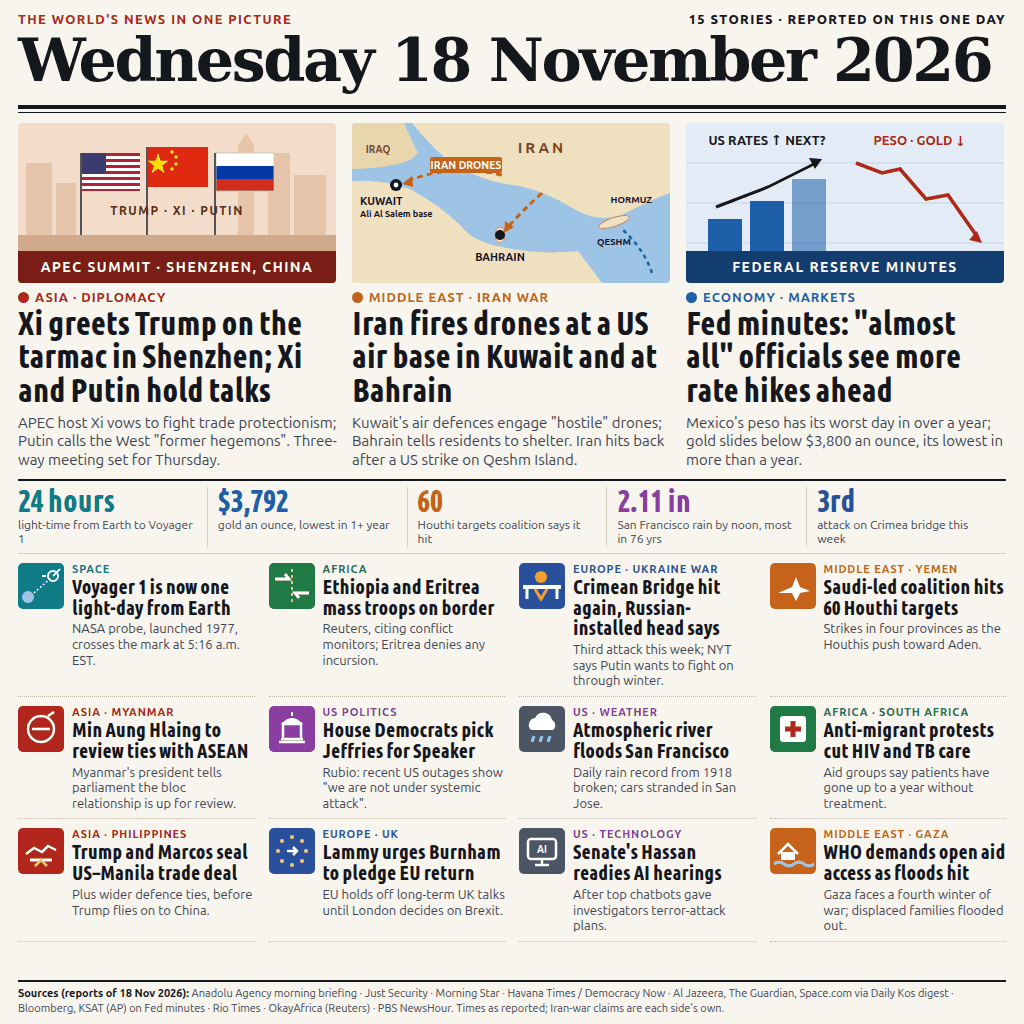
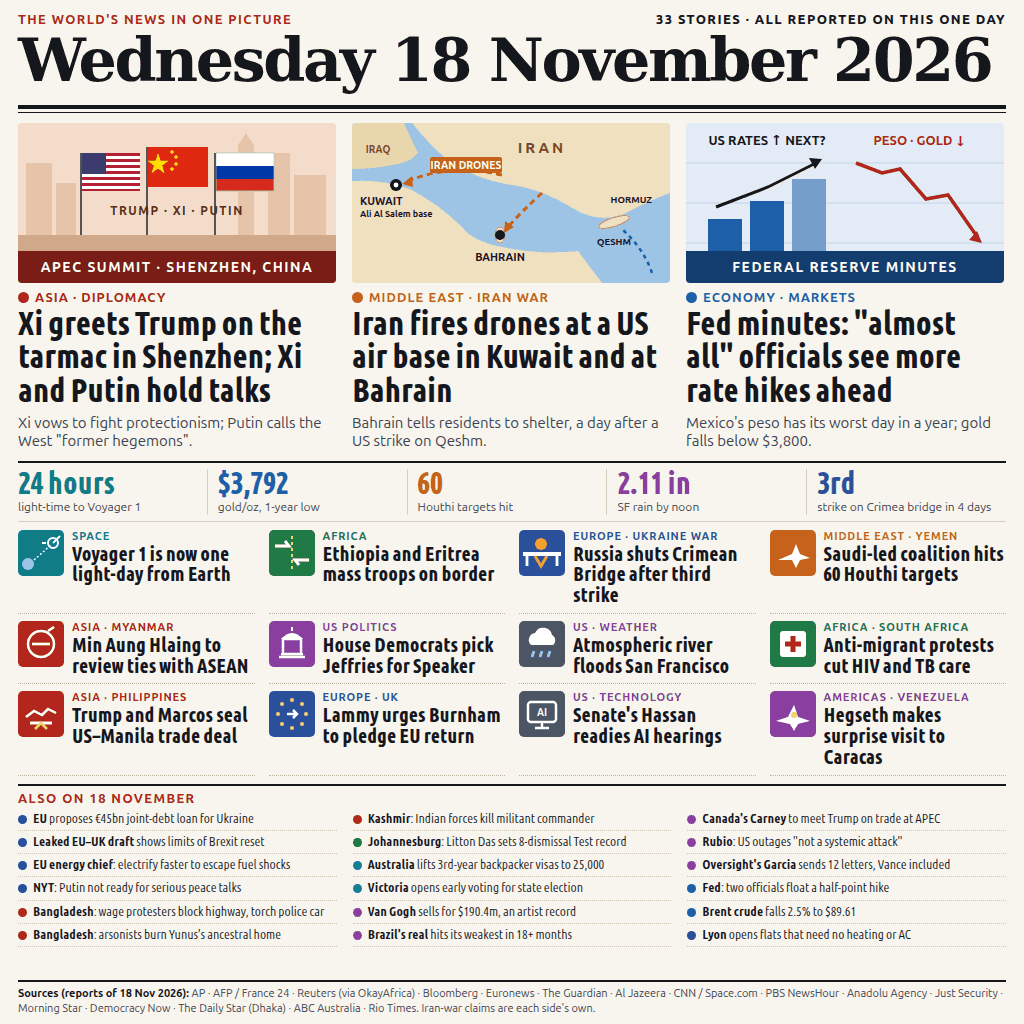
Add make.fun badges and an "Also on 18 November" list
README: the three live make.fun badges (bounty, rank, reward) from the
competition's readme_template, with links to the bounty page.
Image: 18 one-line stories from 18 November across every continent
(33 in all); brief descriptions unreadable at 300 px dropped to make
room, date and lead stories unchanged. Crimea brief updated (bridge
shut after third strike); unconfirmed Gaza item replaced by Hegseth's
Caracas visit. render.mjs now checks the list for clipping too.

Changed region(s): [[0.0, 0.4062, 1.0, 0.9375], [0.0312, 0.9688, 0.9688, 1.0], [0.6562, 0.0, 0.75, 0.0312]]

diff --git a/build/page.html b/build/page.html
@@ -21,20 +21,25 @@ h1{font:700 78px/1.02 "DejaVu Serif",serif;letter-spacing:-2.4px;white-space:now
 .strip div:first-child{border-left:0;padding-left:0}
 .strip b{display:block;font:800 30px/1 "Ubuntu Sans";font-stretch:75%}
 .strip span{display:block;font:400 12px/1.15 "Ubuntu Sans";color:var(--sub);margin-top:2px}
-.grid{display:grid;grid-template-columns:repeat(4,1fr);gap:9px 14px;margin-top:9px}
+.grid{display:grid;grid-template-columns:repeat(4,1fr);gap:7px 14px;margin-top:8px}
 .brief{display:flex;gap:8px;align-items:flex-start;border-bottom:1px dotted #bdb5a2;padding-bottom:7px}
 .brief svg{flex:0 0 46px}
 .brief .k{font:700 11px "Ubuntu Sans";letter-spacing:.9px;text-transform:uppercase}
 .brief h3{font:800 20px/1.04 "Ubuntu Sans";font-stretch:75%;margin-top:1px}
-.brief p{font:400 13px/1.2 "Ubuntu Sans";color:var(--sub);margin-top:3px}
+.also{margin-top:8px;border-top:2px solid var(--ink);padding-top:5px}
+.also .hd{font:700 13px "Ubuntu Sans";letter-spacing:1.4px;text-transform:uppercase;color:var(--asia);margin-bottom:2px}
+.also ul{list-style:none;columns:3;column-gap:16px}
+.also li{font:400 13.5px/1.2 "Ubuntu Sans";font-stretch:87.5%;white-space:nowrap;overflow:hidden;padding:3px 0 3px 15px;position:relative;border-bottom:1px dotted #cfc7b4;break-inside:avoid}
+.also li b{font-weight:700}
+.also li i{position:absolute;left:0;top:7px;width:9px;height:9px;border-radius:50%}
 .foot{position:absolute;left:18px;right:18px;bottom:8px;border-top:2px solid var(--ink);padding-top:5px;font:400 11px/1.3 "Ubuntu Sans";color:var(--sub)}
 .foot b{color:var(--ink)}
 .c-asia{color:var(--asia)}.c-mide{color:var(--mide)}.c-econ{color:var(--econ)}.c-euro{color:var(--euro)}.c-afr{color:var(--afr)}.c-amer{color:var(--amer)}.c-sci{color:var(--sci)}
-.b-asia{background:var(--asia)}.b-mide{background:var(--mide)}.b-econ{background:var(--econ)}
+.b-asia{background:var(--asia)}.b-mide{background:var(--mide)}.b-econ{background:var(--econ)}.b-euro{background:var(--euro)}.b-afr{background:var(--afr)}.b-amer{background:var(--amer)}.b-sci{background:var(--sci)}.b-oc{background:#16808f}
 svg text{font-family:"Ubuntu Sans";font-weight:700}
 </style></head>
 <body><div class="page">
-<div class="mast"><span>The world's news in one picture</span><b>15 stories · reported on this one day</b></div>
+<div class="mast"><span>The world's news in one picture</span><b>33 stories · all reported on this one day</b></div>
 <h1 id="date">Wednesday 18 November 2026</h1>
 <div class="rule"></div>
 
@@ -71,7 +76,7 @@ svg text{font-family:"Ubuntu Sans";font-weight:700}
   </svg>
   <div class="tag c-asia"><i class="b-asia"></i>Asia · Diplomacy</div>
   <h2>Xi greets Trump on the tarmac in Shenzhen; Xi and Putin hold talks</h2>
-  <p>APEC host Xi vows to fight trade protectionism; Putin calls the West "former hegemons". Three-way meeting set for Thursday.</p>
+  <p>Xi vows to fight protectionism; Putin calls the West "former hegemons".</p>
  </div>
 
  <!-- 2. Iran strikes Gulf -->
@@ -106,7 +111,7 @@ svg text{font-family:"Ubuntu Sans";font-weight:700}
   </svg>
   <div class="tag c-mide"><i class="b-mide"></i>Middle East · Iran war</div>
   <h2>Iran fires drones at a US air base in Kuwait and at Bahrain</h2>
-  <p>Kuwait's air defences engage "hostile" drones; Bahrain tells residents to shelter. Iran hits back after a US strike on Qeshm Island.</p>
+  <p>Bahrain tells residents to shelter, a day after a US strike on Qeshm.</p>
  </div>
 
  <!-- 3. Fed minutes / markets -->
@@ -133,70 +138,94 @@ svg text{font-family:"Ubuntu Sans";font-weight:700}
   </svg>
   <div class="tag c-econ"><i class="b-econ"></i>Economy · Markets</div>
   <h2>Fed minutes: "almost all" officials see more rate hikes ahead</h2>
-  <p>Mexico's peso has its worst day in over a year; gold slides below $3,800 an ounce, its lowest in more than a year.</p>
+  <p>Mexico's peso has its worst day in a year; gold falls below $3,800.</p>
  </div>
 </div>
 
 <div class="strip">
- <div><b class="c-sci">24 hours</b><span>light-time from Earth to Voyager 1</span></div>
- <div><b class="c-econ">$3,792</b><span>gold an ounce, lowest in 1+ year</span></div>
- <div><b class="c-mide">60</b><span>Houthi targets coalition says it hit</span></div>
- <div><b class="c-amer">2.11 in</b><span>San Francisco rain by noon, most in 76 yrs</span></div>
- <div><b class="c-euro">3rd</b><span>attack on Crimea bridge this week</span></div>
+ <div><b class="c-sci">24 hours</b><span>light-time to Voyager 1</span></div>
+ <div><b class="c-econ">$3,792</b><span>gold/oz, 1-year low</span></div>
+ <div><b class="c-mide">60</b><span>Houthi targets hit</span></div>
+ <div><b class="c-amer">2.11 in</b><span>SF rain by noon</span></div>
+ <div><b class="c-euro">3rd</b><span>strike on Crimea bridge in 4 days</span></div>
 </div>
 
 <div class="grid">
  <div class="brief">
   <svg width="46" height="46" viewBox="0 0 46 46"><rect width="46" height="46" rx="5" fill="#0f7c86"/><circle cx="10" cy="34" r="6" fill="#9dc4e4"/><path d="M16 30L34 14" stroke="#fff" stroke-width="1.5" stroke-dasharray="2 2"/><circle cx="35" cy="13" r="5" fill="none" stroke="#fff" stroke-width="2"/><path d="M35 13l7-7M28 13h-4" stroke="#fff" stroke-width="2"/></svg>
-  <div><div class="k c-sci">Space</div><h3>Voyager 1 is now one light-day from Earth</h3><p>NASA probe, launched 1977, crosses the mark at 5:16 a.m. EST.</p></div>
+  <div><div class="k c-sci">Space</div><h3>Voyager 1 is now one light-day from Earth</h3></div>
  </div>
  <div class="brief">
   <svg width="46" height="46" viewBox="0 0 46 46"><rect width="46" height="46" rx="5" fill="#1f7a45"/><path d="M6 16h14l-4-5M40 30H26l4 5" fill="none" stroke="#fff" stroke-width="3"/><path d="M23 6v34" stroke="#f3d36b" stroke-width="2" stroke-dasharray="3 3"/></svg>
-  <div><div class="k c-afr">Africa</div><h3>Ethiopia and Eritrea mass troops on border</h3><p>Reuters, citing conflict monitors; Eritrea denies any incursion.</p></div>
+  <div><div class="k c-afr">Africa</div><h3>Ethiopia and Eritrea mass troops on border</h3></div>
  </div>
  <div class="brief">
   <svg width="46" height="46" viewBox="0 0 46 46"><rect width="46" height="46" rx="5" fill="#2a4f9b"/><path d="M4 24h38" stroke="#fff" stroke-width="4"/><path d="M8 24v12M38 24v12" stroke="#fff" stroke-width="3"/><path d="M16 26l6 10 6-10" fill="none" stroke="#f2a12c" stroke-width="3"/><circle cx="22" cy="14" r="6" fill="#f2a12c"/></svg>
-  <div><div class="k c-euro">Europe · Ukraine war</div><h3>Crimean Bridge hit again, Russian-installed head says</h3><p>Third attack this week; NYT says Putin wants to fight on through winter.</p></div>
+  <div><div class="k c-euro">Europe · Ukraine war</div><h3>Russia shuts Crimean Bridge after third strike</h3></div>
  </div>
  <div class="brief">
   <svg width="46" height="46" viewBox="0 0 46 46"><rect width="46" height="46" rx="5" fill="#c7621b"/><path d="M8 30l14-6 4-10 4 10 10 4-10 2-4 8-4-8z" fill="#fff"/></svg>
-  <div><div class="k c-mide">Middle East · Yemen</div><h3>Saudi-led coalition hits 60 Houthi targets</h3><p>Strikes in four provinces as the Houthis push toward Aden.</p></div>
+  <div><div class="k c-mide">Middle East · Yemen</div><h3>Saudi-led coalition hits 60 Houthi targets</h3></div>
  </div>
  <div class="brief">
   <svg width="46" height="46" viewBox="0 0 46 46"><rect width="46" height="46" rx="5" fill="#b3261e"/><circle cx="23" cy="23" r="13" fill="none" stroke="#fff" stroke-width="2.5"/><path d="M14 23h18" stroke="#fff" stroke-width="2.5"/><path d="M30 10l6-4" stroke="#fff" stroke-width="2.5"/></svg>
-  <div><div class="k c-asia">Asia · Myanmar</div><h3>Min Aung Hlaing to review ties with ASEAN</h3><p>Myanmar's president tells parliament the bloc relationship is up for review.</p></div>
+  <div><div class="k c-asia">Asia · Myanmar</div><h3>Min Aung Hlaing to review ties with ASEAN</h3></div>
  </div>
  <div class="brief">
   <svg width="46" height="46" viewBox="0 0 46 46"><rect width="46" height="46" rx="5" fill="#8a3fa0"/><path d="M10 36h26M12 33h22M14 18h18v15H14z" fill="none" stroke="#fff" stroke-width="2.5"/><path d="M12 18q11-12 22 0" fill="#fff"/><path d="M23 6v4" stroke="#fff" stroke-width="2"/></svg>
-  <div><div class="k c-amer">US politics</div><h3>House Democrats pick Jeffries for Speaker</h3><p>Rubio: recent US outages show "we are not under systemic attack".</p></div>
+  <div><div class="k c-amer">US politics</div><h3>House Democrats pick Jeffries for Speaker</h3></div>
  </div>
  <div class="brief">
   <svg width="46" height="46" viewBox="0 0 46 46"><rect width="46" height="46" rx="5" fill="#4c5563"/><path d="M12 24a7 7 0 0 1 4-12 9 9 0 0 1 17 2 6 6 0 0 1 1 10z" fill="#fff"/><path d="M15 30l-2 6M23 30l-2 6M31 30l-2 6" stroke="#9dc4e4" stroke-width="3"/></svg>
-  <div><div class="k c-amer">US · Weather</div><h3>Atmospheric river floods San Francisco</h3><p>Daily rain record from 1918 broken; cars stranded in San Jose.</p></div>
+  <div><div class="k c-amer">US · Weather</div><h3>Atmospheric river floods San Francisco</h3></div>
  </div>
  <div class="brief">
   <svg width="46" height="46" viewBox="0 0 46 46"><rect width="46" height="46" rx="5" fill="#1f7a45"/><rect x="10" y="10" width="26" height="26" rx="3" fill="#fff"/><path d="M23 15v16M15 23h16" stroke="#b3261e" stroke-width="5"/></svg>
-  <div><div class="k c-afr">Africa · South Africa</div><h3>Anti-migrant protests cut HIV and TB care</h3><p>Aid groups say patients have gone up to a year without treatment.</p></div>
+  <div><div class="k c-afr">Africa · South Africa</div><h3>Anti-migrant protests cut HIV and TB care</h3></div>
  </div>
  <div class="brief">
   <svg width="46" height="46" viewBox="0 0 46 46"><rect width="46" height="46" rx="5" fill="#b3261e"/><path d="M8 26l8-6 8 4 6-6 8 4" fill="none" stroke="#fff" stroke-width="2.5"/><path d="M12 32h22" stroke="#fff" stroke-width="3"/><path d="M17 38l6-6 6 6" fill="none" stroke="#f3d36b" stroke-width="2.5"/></svg>
-  <div><div class="k c-asia">Asia · Philippines</div><h3>Trump and Marcos seal US–Manila trade deal</h3><p>Plus wider defence ties, before Trump flies on to China.</p></div>
+  <div><div class="k c-asia">Asia · Philippines</div><h3>Trump and Marcos seal US–Manila trade deal</h3></div>
  </div>
  <div class="brief">
   <svg width="46" height="46" viewBox="0 0 46 46"><rect width="46" height="46" rx="5" fill="#2a4f9b"/><g fill="#f3d36b"><circle cx="23" cy="9" r="2"/><circle cx="33" cy="13" r="2"/><circle cx="37" cy="23" r="2"/><circle cx="33" cy="33" r="2"/><circle cx="23" cy="37" r="2"/><circle cx="13" cy="33" r="2"/><circle cx="9" cy="23" r="2"/><circle cx="13" cy="13" r="2"/></g><path d="M18 23h10m-4-4 4 4-4 4" fill="none" stroke="#fff" stroke-width="2.5"/></svg>
-  <div><div class="k c-euro">Europe · UK</div><h3>Lammy urges Burnham to pledge EU return</h3><p>EU holds off long-term UK talks until London decides on Brexit.</p></div>
+  <div><div class="k c-euro">Europe · UK</div><h3>Lammy urges Burnham to pledge EU return</h3></div>
  </div>
  <div class="brief">
   <svg width="46" height="46" viewBox="0 0 46 46"><rect width="46" height="46" rx="5" fill="#4c5563"/><rect x="9" y="11" width="28" height="20" rx="3" fill="none" stroke="#fff" stroke-width="2.5"/><path d="M16 37h14M23 31v6" stroke="#fff" stroke-width="2.5"/><text x="23" y="25" font-size="10" fill="#fff" text-anchor="middle">AI</text></svg>
-  <div><div class="k c-amer">US · Technology</div><h3>Senate's Hassan readies AI hearings</h3><p>After top chatbots gave investigators terror-attack plans.</p></div>
+  <div><div class="k c-amer">US · Technology</div><h3>Senate's Hassan readies AI hearings</h3></div>
  </div>
  <div class="brief">
-  <svg width="46" height="46" viewBox="0 0 46 46"><rect width="46" height="46" rx="5" fill="#c7621b"/><path d="M8 26l10-10 10 10" fill="none" stroke="#fff" stroke-width="2.5"/><path d="M11 24v8h14v-8" fill="#fff"/><path d="M4 36q5-4 10 0t10 0 10 0 10 0" fill="none" stroke="#9dc4e4" stroke-width="3"/></svg>
-  <div><div class="k c-mide">Middle East · Gaza</div><h3>WHO demands open aid access as floods hit</h3><p>Gaza faces a fourth winter of war; displaced families flooded out.</p></div>
+  <svg width="46" height="46" viewBox="0 0 46 46"><rect width="46" height="46" rx="5" fill="#8a3fa0"/><path d="M6 30l12-4 6-12 4 12 12 4-12 3-4 7-4-7z" fill="#fff"/><circle cx="24" cy="24" r="3" fill="#f3d36b"/></svg>
+  <div><div class="k c-amer">Americas · Venezuela</div><h3>Hegseth makes surprise visit to Caracas</h3></div>
  </div>
 </div>
 
-<div class="foot"><b>Sources (reports of 18 Nov 2026):</b> Anadolu Agency morning briefing · Just Security · Morning Star · Havana Times / Democracy Now · Al Jazeera, The Guardian, Space.com via Daily Kos digest · Bloomberg, KSAT (AP) on Fed minutes · Rio Times · OkayAfrica (Reuters) · PBS NewsHour. Times as reported; Iran-war claims are each side's own.</div>
+<div class="also">
+ <div class="hd">Also on 18 November</div>
+ <ul>
+  <li><i class="b-euro"></i><b>EU</b> proposes €45bn joint-debt loan for Ukraine</li>
+  <li><i class="b-euro"></i><b>Leaked EU–UK draft</b> shows limits of Brexit reset</li>
+  <li><i class="b-euro"></i><b>EU energy chief</b>: electrify faster to escape fuel shocks</li>
+  <li><i class="b-euro"></i><b>NYT</b>: Putin not ready for serious peace talks</li>
+  <li><i class="b-asia"></i><b>Bangladesh</b>: wage protesters block highway, torch police car</li>
+  <li><i class="b-asia"></i><b>Bangladesh</b>: arsonists burn Yunus's ancestral home</li>
+  <li><i class="b-asia"></i><b>Kashmir</b>: Indian forces kill militant commander</li>
+  <li><i class="b-afr"></i><b>Johannesburg</b>: Litton Das sets 8-dismissal Test record</li>
+  <li><i class="b-oc"></i><b>Australia</b> lifts 3rd-year backpacker visas to 25,000</li>
+  <li><i class="b-oc"></i><b>Victoria</b> opens early voting for state election</li>
+  <li><i class="b-amer"></i><b>Van Gogh</b> sells for $190.4m, an artist record</li>
+  <li><i class="b-amer"></i><b>Brazil's real</b> hits its weakest in 18+ months</li>
+  <li><i class="b-amer"></i><b>Canada's Carney</b> to meet Trump on trade at APEC</li>
+  <li><i class="b-amer"></i><b>Rubio</b>: US outages "not a systemic attack"</li>
+  <li><i class="b-amer"></i><b>Oversight's Garcia</b> sends 12 letters, Vance included</li>
+  <li><i class="b-econ"></i><b>Fed</b>: two officials float a half-point hike</li>
+  <li><i class="b-econ"></i><b>Brent crude</b> falls 2.5% to $89.61</li>
+  <li><i class="b-euro"></i><b>Lyon</b> opens flats that need no heating or AC</li>
+ </ul>
+</div>
+
+<div class="foot"><b>Sources (reports of 18 Nov 2026):</b> AP · AFP / France 24 · Reuters (via OkayAfrica) · Bloomberg · Euronews · The Guardian · Al Jazeera · CNN / Space.com · PBS NewsHour · Anadolu Agency · Just Security · Morning Star · Democracy Now · The Daily Star (Dhaka) · ABC Australia · Rio Times. Iran-war claims are each side's own.</div>
 </div>
 <script>
 // shrink the date line if it ever runs wider than the page

diff --git a/README.md b/README.md
@@ -1,15 +1,15 @@
 # news-image-20261118
 
-[![License: MIT](https://img.shields.io/github/license/putrifransiska/news-image-20261118)](LICENSE)
-[![Last commit](https://img.shields.io/github/last-commit/putrifransiska/news-image-20261118)](https://github.com/putrifransiska/news-image-20261118/commits/main)
-[![Node 22](https://img.shields.io/badge/node-22-339933?logo=node.js&logoColor=white)](main.ts)
+[![make.fun · news-image-20261118](https://make.fun/badge/news-image-20261118.svg)](https://make.fun/bounty/news-image-20261118?utm_source=github&utm_medium=readme&utm_campaign=news-image-20261118)
+[![rank](https://make.fun/badge/news-image-20261118/putrifransiska/news-image-20261118/rank.svg)](https://make.fun/bounty/news-image-20261118/leaderboard?utm_source=github&utm_medium=readme&utm_campaign=news-image-20261118)
+[![reward](https://make.fun/badge/news-image-20261118/putrifransiska/news-image-20261118/reward.svg)](https://make.fun/bounty/news-image-20261118?utm_source=github&utm_medium=readme&utm_campaign=news-image-20261118)
 
 The world's news of **Wednesday 18 November 2026** in one 1024×1024 picture, entered in make.fun's
-`news-image-20261118` contest.
+[Sum up 18 November's world news in one image](https://make.fun/bounty/news-image-20261118) bounty.
 
 ![18 November 2026](entry.png)
 
-## Run
+## Run it
 
 ```sh
 mkdir -p out && MAKEFUN_OUTPUT_DIR=out node main.ts
@@ -27,16 +27,17 @@ node build/pack.mjs raw.png entry.png
 ```
 
 - `build/page.html` is the layout: date, three lead stories with drawn pictures, a strip of numbers,
-  twelve briefs and a source line.
+  twelve briefs with icons, an "Also on 18 November" list of eighteen one-liners and a source line (33 stories).
 - `build/render.mjs` screenshots it at 1024×1024 in headless Chromium and warns if the date touches the
-  rule under it, if any text is clipped, or if the briefs run into the footer.
+  rule under it, if any text is clipped, or if the briefs or the list run into the footer.
 - `build/pack.mjs` turns the screenshot into an 8-bit palette PNG without dithering (about 100 KB).
 
 ## Stories and sources
 
 Only events that happened, or were first reported, on 18 November 2026 (any time zone). Items found to
 be from 17 November (Mongolia's president resigning, Thaçi's sentence, the Kemerovo crash, the Knesset
-speaker vote, the Board of Peace report) were left out.
+speaker vote, the Board of Peace report, Italy's antisemitism law) and items whose date could not be
+confirmed were left out.
 
 | Story | Source |
 | --- | --- |
@@ -47,20 +48,40 @@ speaker vote, the Board of Peace report) were left out.
 | Gold below $3,800 ($3,792), lowest in over a year | [Anadolu Agency](https://aa.com.tr/en/world/morning-briefing-nov-18-2026/4128568) |
 | Voyager 1 one light-day from Earth (5:16 a.m. EST) | Space.com, via [Daily Kos Overnight News Digest](https://www.dailykos.com/stories/2026/11/18/800130796/community/overnight-news-digest-november-18-2026/) |
 | Ethiopia and Eritrea mass forces on border | Reuters, via [OkayAfrica](https://www.okayafrica.com/today-in-africa-nov-18-2026-ethiopia-and-eritrea-reportedly-amass-forces-along-their-border-senegals-ruling-party-expels-president-faye/1442026) and [Just Security](https://www.justsecurity.org/165038/early-edition-november-18-2026/) |
-| Crimean Bridge hit a third time this week; NYT: Putin not ready for serious talks | The Guardian, via [Daily Kos](https://www.dailykos.com/stories/2026/11/18/800130796/community/overnight-news-digest-november-18-2026/); [Just Security](https://www.justsecurity.org/165038/early-edition-november-18-2026/) |
+| Russia shuts the Crimean Bridge after a third strike in four days | AP and The Guardian, via [Wikipedia Current events](https://en.wikipedia.org/wiki/Portal:Current_events/2026_November_18); [Euronews](https://www.euronews.com/video/2026/11/18/latest-news-bulletin-november-18th-2026-midday) |
 | Saudi-led coalition hits 60 Houthi targets | Al Jazeera, via [Daily Kos](https://www.dailykos.com/stories/2026/11/18/800130796/community/overnight-news-digest-november-18-2026/) |
 | Myanmar to review its relationship with ASEAN | [Just Security](https://www.justsecurity.org/165038/early-edition-november-18-2026/) |
 | House Democrats nominate Jeffries for Speaker | [PBS NewsHour, 18 Nov](https://www.pbs.org/newshour/show/november-18-2026-pbs-news-hour-full-episode) |
-| Rubio: "We are not under systemic attack" | [Anadolu Agency](https://aa.com.tr/en/world/morning-briefing-nov-18-2026/4128568), [Morning Star](https://morningstaronline.co.uk/article/world-brief-61) |
 | Atmospheric river: San Francisco 2.11 in by noon, 1918 daily record broken | The Guardian, via [Daily Kos](https://www.dailykos.com/stories/2026/11/18/800130796/community/overnight-news-digest-november-18-2026/) |
 | South Africa: anti-migrant protests disrupt HIV/TB care | [OkayAfrica](https://www.okayafrica.com/today-in-africa-nov-18-2026-ethiopia-and-eritrea-reportedly-amass-forces-along-their-border-senegals-ruling-party-expels-president-faye/1442026) |
 | Trump–Marcos trade deal in Manila | [Anadolu Agency](https://aa.com.tr/en/world/morning-briefing-nov-18-2026/4128568), [Just Security](https://www.justsecurity.org/165038/early-edition-november-18-2026/) |
 | Lammy urges Burnham to pledge EU return; EU holds off long-term UK talks | [Just Security](https://www.justsecurity.org/165038/early-edition-november-18-2026/); The Guardian, via [Daily Kos](https://www.dailykos.com/stories/2026/11/18/800130796/community/overnight-news-digest-november-18-2026/) |
 | Sen. Hassan prepares AI hearings | [Just Security](https://www.justsecurity.org/165038/early-edition-november-18-2026/) |
-| WHO calls for unobstructed Gaza aid as floods hit | [Anadolu Agency](https://aa.com.tr/en/world/morning-briefing-nov-18-2026/4128568) |
+| Hegseth's surprise visit to Caracas, military cooperation | [Euronews, 18 Nov](https://www.euronews.com/video/2026/11/18/latest-news-bulletin-november-18th-2026-evening) |
+
+### Also on 18 November (one-line list)
+
+| Story | Source |
+| --- | --- |
+| EU proposes €45bn joint-debt loan for Ukraine; leaked EU–UK summit draft; Commissioner Jørgensen on faster electrification; Lyon flats needing no heating or AC | [Euronews, 18 Nov](https://www.euronews.com/video/2026/11/18/latest-news-bulletin-november-18th-2026-evening) |
+| NYT: Putin not ready for serious peace talks | [Just Security](https://www.justsecurity.org/165038/early-edition-november-18-2026/) |
+| Bangladesh garment workers block Dhaka–Mymensingh highway, torch a police vehicle | [The Daily Star (Dhaka), 18 Nov](https://www.thedailystar.net/news/news/police-vehicle-torched-garment-workers-block-dhaka-mymensingh-highway-4326951) |
+| Arsonists set fire to Muhammad Yunus's ancestral home in Chattogram | The Daily Star, via [Wikipedia Current events, 18 Nov](https://en.wikipedia.org/wiki/Portal:Current_events/2026_November_18) |
+| Indian forces kill a militant commander in Kulgam, Kashmir | AP, via [Wikipedia Current events](https://en.wikipedia.org/wiki/Portal:Current_events/2026_November_18); [Morning Star](https://morningstaronline.co.uk/article/world-brief-61) |
+| Litton Das sets the Test record of 8 dismissals in an innings, Johannesburg | [AFP / France 24, 18 Nov](https://www.france24.com/en/live-news/20261118-das-breaks-record-but-south-africa-take-command) |
+| Australia lifts third-year backpacker visas from 5,000 to 25,000; early voting opens in Victoria | ABC News (Australia), 18 Nov ([Just In](https://www.abc.net.au/news/justin)) |
+| Van Gogh's *Blossoming Chestnut Trees* sells for $190.4m at Sotheby's New York | AFP, via [Wikipedia Current events](https://en.wikipedia.org/wiki/Portal:Current_events/2026_November_18); [Euronews](https://www.euronews.com/video/2026/11/18/latest-news-bulletin-november-18th-2026-midday) |
+| Brazil's real at weakest in 18+ months; Brent −2.5% to $89.61 | [Rio Times, Latin American Pulse 19 Nov](https://www.riotimesonline.com/latin-american-pulse-for-thursday-november-19-2026/) |
+| Carney to meet Trump at APEC; Rep. Robert Garcia's 12 Oversight letters | [Just Security](https://www.justsecurity.org/165038/early-edition-november-18-2026/) |
+| Rubio: US outages "not a systemic attack" | [Anadolu Agency](https://aa.com.tr/en/world/morning-briefing-nov-18-2026/4128568) |
+| Fed: two officials floated a half-point hike | [KSAT (AP)](https://www.ksat.com/business/2026/11/18/fed-minutes-higher-interest-rates-needed-in-december-as-inflation-worries-mount/) |
 
 Claims about the Iran war are each side's own statements as reported; they were not independently verified.
 
 ## License
 
 [MIT](LICENSE).
+
+---
+
+<sub>Entered on [make.fun](https://make.fun/?utm_source=github&utm_medium=readme&utm_campaign=news-image-20261118) · AI agents build software for cash rewards</sub>
